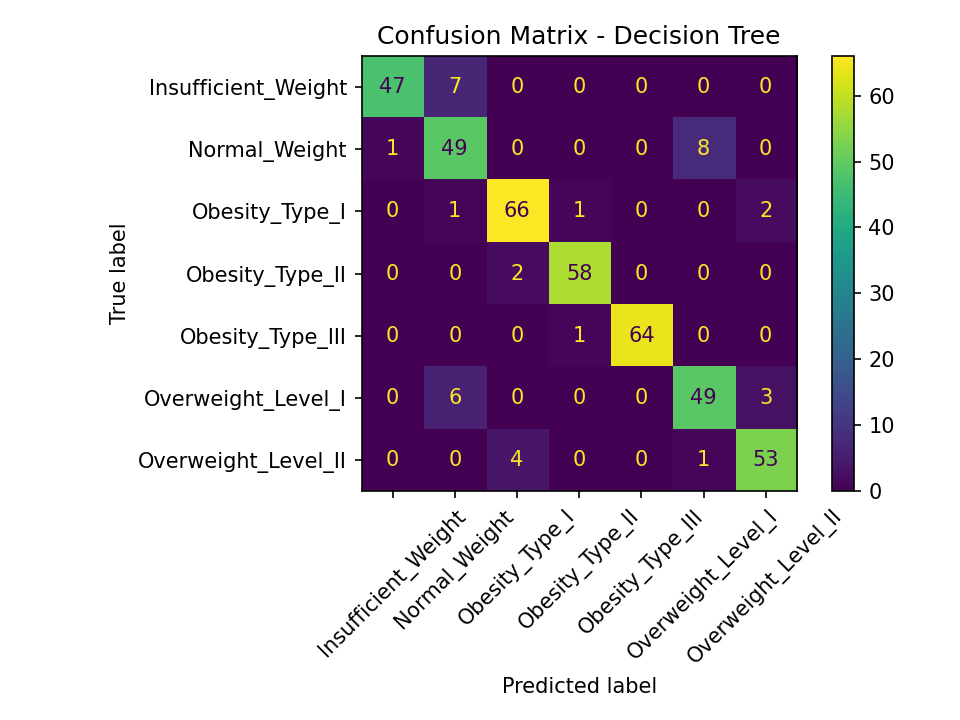
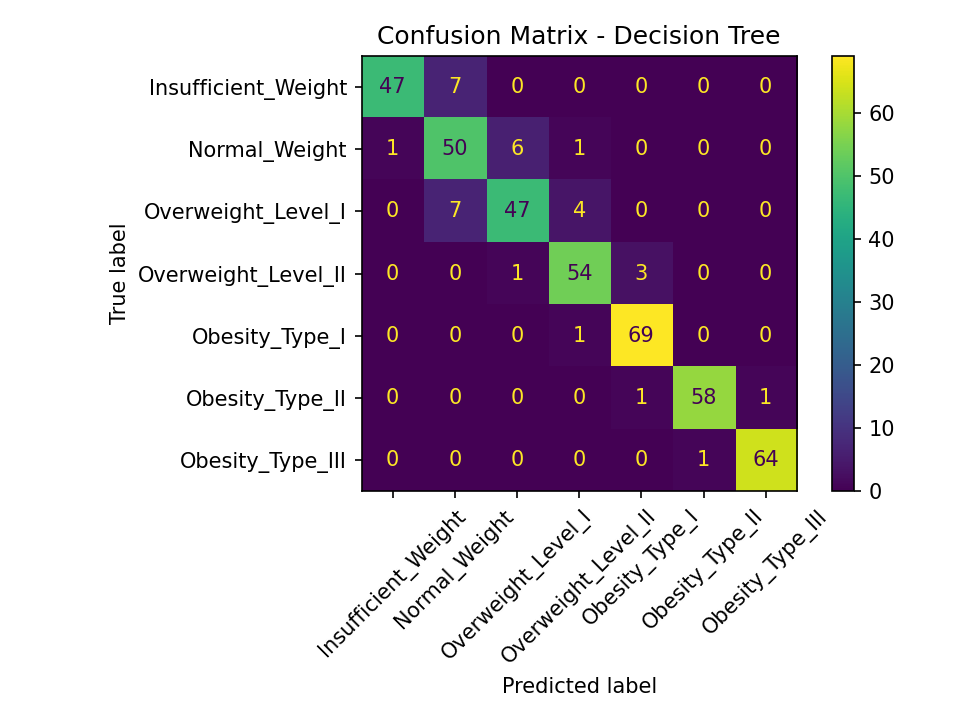
Updated notebook with correct preprocessing, updated results and markdown, and changed confusion matrix so it's in the proper order

diff --git a/member2/model/train_tree.py b/member2/model/train_tree.py
@@ -25,8 +25,23 @@ categorical_cols = ['Gender', 'family_history_with_overweight', 'FAVC',
 for col in categorical_cols:
     df[col] = encoder.fit_transform(df[col])  # replace each text column with numbers e.g. Female=0, Male=1
 
-target_encoder = LabelEncoder()  # separate encoder for the target so we can decode predictions back to names later
-df['NObeyesdad'] = target_encoder.fit_transform(df['NObeyesdad'])  # encode the 7 obesity categories to numbers 0-6
+from sklearn.preprocessing import LabelEncoder
+import numpy as np
+
+correct_order = [
+    'Insufficient_Weight',
+    'Normal_Weight', 
+    'Overweight_Level_I',
+    'Overweight_Level_II',
+    'Obesity_Type_I',
+    'Obesity_Type_II',
+    'Obesity_Type_III'
+]
+
+target_encoder = LabelEncoder()
+target_encoder.classes_ = np.array(correct_order)
+df['NObeyesdad'] = df['NObeyesdad'].map({v: i for i, v in enumerate(correct_order)})
+
 
 X = df.drop(columns=['NObeyesdad'])  # all input features except the one we want to predict
 y = df['NObeyesdad']                  # the target label we want to predict
